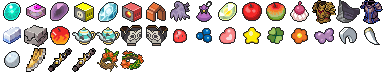
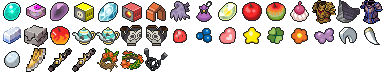
Linking Cord; the Bag can use this mod's stones again
Linking Cord (item 938) evolves plain-trade species when used (EVO_TRADE
override), sold beside the stones. Used evolution items now register
fieldUse = "evo"; without it the Bag offered no USE for any of them.

Changed region(s): [[0.375, 0.6667, 0.4375, 1.0]]

diff --git a/tools/build_items.py b/tools/build_items.py
@@ -58,13 +58,26 @@ ORDER = [
     "scroll-of-darkness", "scroll-of-waters",
     # Galarian Slowpoke -> Galarian Slowbro / Slowking
     "galarica-cuff", "galarica-wreath",
+    # Legends: Arceus's cord, used on a Pokemon that evolves by trading (src/conditional_evos.lua)
+    "linking-cord",
 ]
+
+# Used on a Pokemon from the Bag: the registry's fieldUse = "evo", which the Bag reads to offer
+# USE on the party. Every other item here is held (the trade items, Razor Claw, the sweets...).
+BAG_USE = {
+    "dawn-stone", "dusk-stone", "ice-stone", "shiny-stone",
+    "sweet-apple", "tart-apple", "syrupy-apple",
+    "auspicious-armor", "malicious-armor", "black-augurite", "metal-alloy", "peat-block",
+    "cracked-pot", "chipped-pot", "unremarkable-teacup", "masterpiece-teacup",
+    "scroll-of-darkness", "scroll-of-waters", "galarica-cuff", "galarica-wreath",
+    "linking-cord",
+}
 
 # Items whose icon is not in the pokesprite folder (--icons) but in the Gen 9 Pack's
 # Graphics/Items (--extra-icons, one 48x48 PNG per item, named without separators).
 EXTRA_ICON_FILES = {"galarica-cuff": "GALARICACUFF", "galarica-wreath": "GALARICAWREATH",
                     "leaders-crest": "LEADERSCREST", "scroll-of-darkness": "SCROLLOFDARKNESS",
-                    "scroll-of-waters": "SCROLLOFWATERS"}
+                    "scroll-of-waters": "SCROLLOFWATERS", "linking-cord": "LINKINGCORD"}
 
 # slug -> file stem when the pack spells the item differently (pokesprite
 # calls the teacups "teapot")
@@ -127,6 +140,7 @@ DESCRIPTIONS = {
     "scroll-of-waters": "A scroll of the\nwater style.",
     "galarica-cuff": "A cuff woven from\nGalarica twigs.",
     "galarica-wreath": "A wreath woven\nfrom Galarica\ntwigs.",
+    "linking-cord": "A mysterious cord\nthat gives off a\nstrange energy.",
 }
 
 for _slug, _text in DESCRIPTIONS.items():
@@ -186,7 +200,8 @@ def write_items(path: Path, prices: dict) -> None:
         price, why = derive_price(slug, prices)
         lines.append(f'  {{ slug = "{slug}", id = "{engine_id(slug)}", '
                      f'name = "{display_name(slug)}", index = {INDEX_BASE + i}, '
-                     f'price = {price}, description = {json.dumps(DESCRIPTIONS[slug], ensure_ascii=False)} }}, -- {why}')
+                     f'price = {price}, ' + ('use = "evo", ' if slug in BAG_USE else '')
+                     + f'description = {json.dumps(DESCRIPTIONS[slug], ensure_ascii=False)} }}, -- {why}')
     lines += ["}", ""]
     path.write_text("\n".join(lines), encoding="utf-8")
 

diff --git a/docs/items.md b/docs/items.md
@@ -1,6 +1,6 @@
 # Added items
 
-National Dex Gen 3 adds 38 evolution items that no Gen 3 game has, so the Pokémon that
+National Dex Gen 3 adds 39 evolution items that no Gen 3 game has, so the Pokémon that
 need them can evolve. The real games sell almost none of these, so where each one is sold is a
 design choice: by item type, and by how far into the game the store is.
 
@@ -48,6 +48,7 @@ design choice: by item type, and by how far into the game the store is.
 | WATER SCROLL | ₽2100 | Six Island Mart | Mossdeep City Mart |
 | GALARICA CUFF | ₽2100 | Six Island Mart | Mossdeep City Mart |
 | GALAR. WREATH | ₽2100 | Six Island Mart | Mossdeep City Mart |
+| LINKING CORD | ₽2100 | Celadon Dept. Store 4F | Lilycove Dept. Store (supplements) |
 
 Prices are what a store charges; it buys the item back at half. They come from Bulbapedia
 (twice the sell price listed for the earliest game that has one), or ₽2100, the Gen 3
@@ -321,17 +322,23 @@ evolution stone price, where there is none. See [CREDITS](../CREDITS.md).
 - Ruby / Sapphire / Emerald: Mossdeep City Mart
 - Evolves: Slowpoke (Galar) → Slowking (Galar) (use it on)
 
+### LINKING CORD
+
+- Price: ₽2100
+- FireRed / LeafGreen: Celadon Dept. Store 4F
+- Ruby / Sapphire / Emerald: Lilycove Dept. Store (supplements)
+
 ## By store
 
 ### FireRed / LeafGreen
 
-- **Celadon Dept. Store 4F**: DUSK STONE (₽2100), DAWN STONE (₽2100), SHINY STONE (₽2100), ICE STONE (₽3000), SACHET (₽2100), WHIPPED DREAM (₽2100)
+- **Celadon Dept. Store 4F**: DUSK STONE (₽2100), DAWN STONE (₽2100), SHINY STONE (₽2100), ICE STONE (₽3000), SACHET (₽2100), WHIPPED DREAM (₽2100), LINKING CORD (₽2100)
 - **Celadon Dept. Store 5F (battle items)**: PROTECTOR (₽2100), ELECTIRIZER (₽2100), MAGMARIZER (₽2100), DUBIOUS DISC (₽2100), REAPER CLOTH (₽2100), RAZOR CLAW (₽2100), RAZOR FANG (₽2100), OVAL STONE (₽2100), LEADER'S CREST (₽2100)
 - **Six Island Mart**: METAL ALLOY (₽3000), BLACK AUGURITE (₽1000), PEAT BLOCK (₽1000), AUSPIC. ARMOR (₽2100), MALIC. ARMOR (₽2100), TART APPLE (₽2100), SWEET APPLE (₽2100), SYRUPY APPLE (₽2100), CRACKED POT (₽3000), CHIPPED POT (₽3000), UNREMARK. CUP (₽2100), MASTERPC. CUP (₽2100), STRAWBRY SWEET (₽2100), BERRY SWEET (₽2100), LOVE SWEET (₽2100), STAR SWEET (₽2100), CLOVER SWEET (₽2100), FLOWER SWEET (₽2100), RIBBON SWEET (₽2100), DARK SCROLL (₽2100), WATER SCROLL (₽2100), GALARICA CUFF (₽2100), GALAR. WREATH (₽2100)
 
 ### Ruby / Sapphire / Emerald
 
-- **Lilycove Dept. Store (supplements)**: DUSK STONE (₽2100), DAWN STONE (₽2100), SHINY STONE (₽2100), ICE STONE (₽3000), SACHET (₽2100), WHIPPED DREAM (₽2100)
+- **Lilycove Dept. Store (supplements)**: DUSK STONE (₽2100), DAWN STONE (₽2100), SHINY STONE (₽2100), ICE STONE (₽3000), SACHET (₽2100), WHIPPED DREAM (₽2100), LINKING CORD (₽2100)
 - **Lilycove Dept. Store (battle items)**: PROTECTOR (₽2100), ELECTIRIZER (₽2100), MAGMARIZER (₽2100), DUBIOUS DISC (₽2100), REAPER CLOTH (₽2100), RAZOR CLAW (₽2100), RAZOR FANG (₽2100), OVAL STONE (₽2100), LEADER'S CREST (₽2100)
 - **Mossdeep City Mart**: TART APPLE (₽2100), SWEET APPLE (₽2100), SYRUPY APPLE (₽2100), CRACKED POT (₽3000), CHIPPED POT (₽3000), STRAWBRY SWEET (₽2100), BERRY SWEET (₽2100), LOVE SWEET (₽2100), STAR SWEET (₽2100), CLOVER SWEET (₽2100), FLOWER SWEET (₽2100), RIBBON SWEET (₽2100), DARK SCROLL (₽2100), WATER SCROLL (₽2100), GALARICA CUFF (₽2100), GALAR. WREATH (₽2100)
 - **Sootopolis City Mart**: AUSPIC. ARMOR (₽2100), MALIC. ARMOR (₽2100), METAL ALLOY (₽3000), UNREMARK. CUP (₽2100), MASTERPC. CUP (₽2100)

diff --git a/docs/evolutions-and-forms.md b/docs/evolutions-and-forms.md
@@ -46,11 +46,11 @@ hour of the day, so anything that asks for "day" also works at dusk.
 ## Getting the evolution items
 
 Most of the newer evolutions need an item that none of the five games has. The mod adds
-38 of them and puts them on sale, by kind and by how far into the game the store is:
+39 of them and puts them on sale, by kind and by how far into the game the store is:
 
 | Kind of item | FireRed / LeafGreen | Ruby / Sapphire / Emerald |
 |---|---|---|
-| Stones, Sachet, Whipped Dream | Celadon Dept. Store 4F | Lilycove Dept. Store (supplements) |
+| Stones, Linking Cord, Sachet, Whipped Dream | Celadon Dept. Store 4F | Lilycove Dept. Store (supplements) |
 | Trade and held items (Protector, Electirizer, Magmarizer, Dubious Disc, Reaper Cloth, Razor Claw, Razor Fang, Oval Stone, Leader's Crest) | Celadon Dept. Store 5F | Lilycove Dept. Store (battle items) |
 | Apples, pots, sweets, scrolls, Galarica Cuff and Wreath | Six Island Mart | Mossdeep City Mart |
 | Armors, Metal Alloy, teacups | Six Island Mart | Sootopolis City Mart |
@@ -115,6 +115,13 @@ each item goes with one of the two looks of the Pokémon, and it evolves into th
 The Antique and Artisan looks are [forms](#alternate-forms): they can turn up in the wild
 with Modern Spawns (see [Alternate forms](#alternate-forms)), or come from the save editor. The
 wrong item does nothing.
+
+## Linking Cord
+
+Use the Linking Cord on a Pokémon that evolves by trading and it evolves at once, as if it had
+been traded: Kadabra, Machoke, Graveler and Haunter, and the newer ones (Boldore, Gurdurr,
+Phantump, Pumpkaboo and the others that only need a trade). It does not stand in for a trade
+with a held item: Onix still needs a Metal Coat and a trade. A real trade still works too.
 
 ## Original Pokémon with new evolutions
 

diff --git a/CHANGELOG.md b/CHANGELOG.md
@@ -3,6 +3,24 @@
 All notable changes to this mod are documented here, in
 [keep a changelog](https://keepachangelog.com/en/1.1.0/) format.
 
+## [Unreleased]
+
+### Added
+
+- **Linking Cord** (Legends: Arceus's, item 938, ₽2100, Bag icon from the Gen 9 Pack): used on
+  a Pokemon that evolves by a plain trade (Kadabra, Machoke, Graveler, Haunter; Boldore, Gurdurr,
+  Phantump, Pumpkaboo, Alolan Graveler) it evolves at once; not a stand-in for a held-item trade.
+  Sold beside the stones (Celadon Dept. Store 4F, Lilycove Dept. Store). An override of the
+  native EVO_TRADE method (evolution_methods), so trades still work and rows stay numeric.
+
+### Fixed
+
+- **This mod's stones and other used evolution items could not be used from the Bag**: the Bag
+  only knows an item is used on a Pokemon by its `fieldUse` (or "STONE" in a cart item's name),
+  and these were registered without one, so Dawn / Dusk / Shiny / Ice Stone, the apples, armors,
+  pots, teacups, scrolls, Galarica items, Black Augurite, Metal Alloy and Peat Block offered no
+  USE on the party. They now register `fieldUse = "evo"` (held items are unchanged).
+
 ## [1.4.2] - 2026-10-28
 
 ### Fixed

diff --git a/README.md b/README.md
@@ -19,8 +19,11 @@ Paldea Pokémon can live in Kanto and Hoenn.
   battle with them. Each has its stats, typing, Pokédex entry and cry.
 - 🔄 **New evolutions for old favourites:** Rhydon into Rhyperior, Magneton into Magnezone,
   Nosepass into Probopass, Scyther into Kleavor, Togetic into Togekiss and more.
-- 💎 **The items to do it:** Dusk Stone, Protector, Dubious Disc and 35 more evolution items,
+- 💎 **The items to do it:** Dusk Stone, Protector, Dubious Disc and 36 more evolution items,
   sold in department stores and late-game marts.
+- 🔗 **Linking Cord:** use it on a Pokémon that evolves by trading (Kadabra, Machoke, Graveler,
+  Haunter, Boldore and more) and it evolves on the spot, no trade partner needed. Sold beside
+  the evolution stones.
 - 🍬 **Exp. Candies XS to XL:** use one on a Pokémon from the Bag for a boost of Exp. Points, with
   its level-ups, new moves and evolutions just as a Rare Candy gives them. The base games don't
   hand them out; Dynamax Raids gives them as raid rewards.
